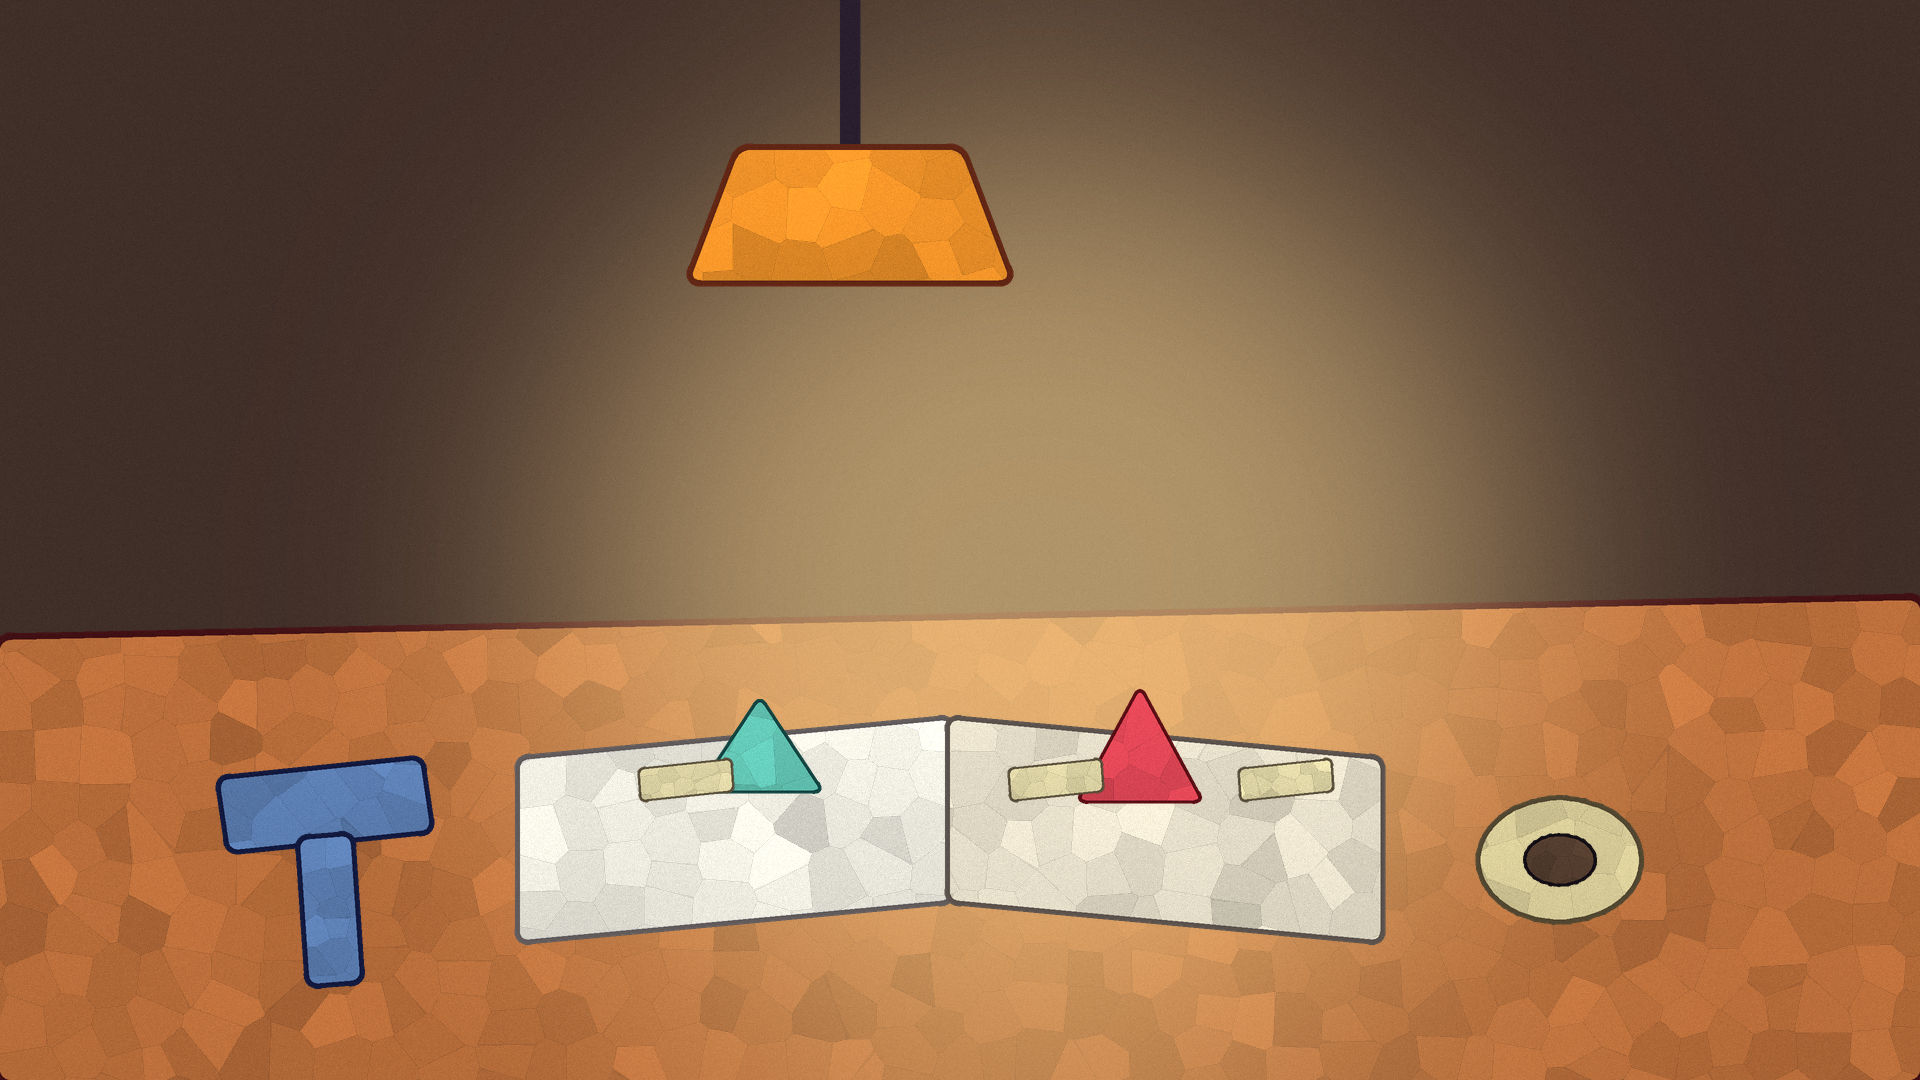
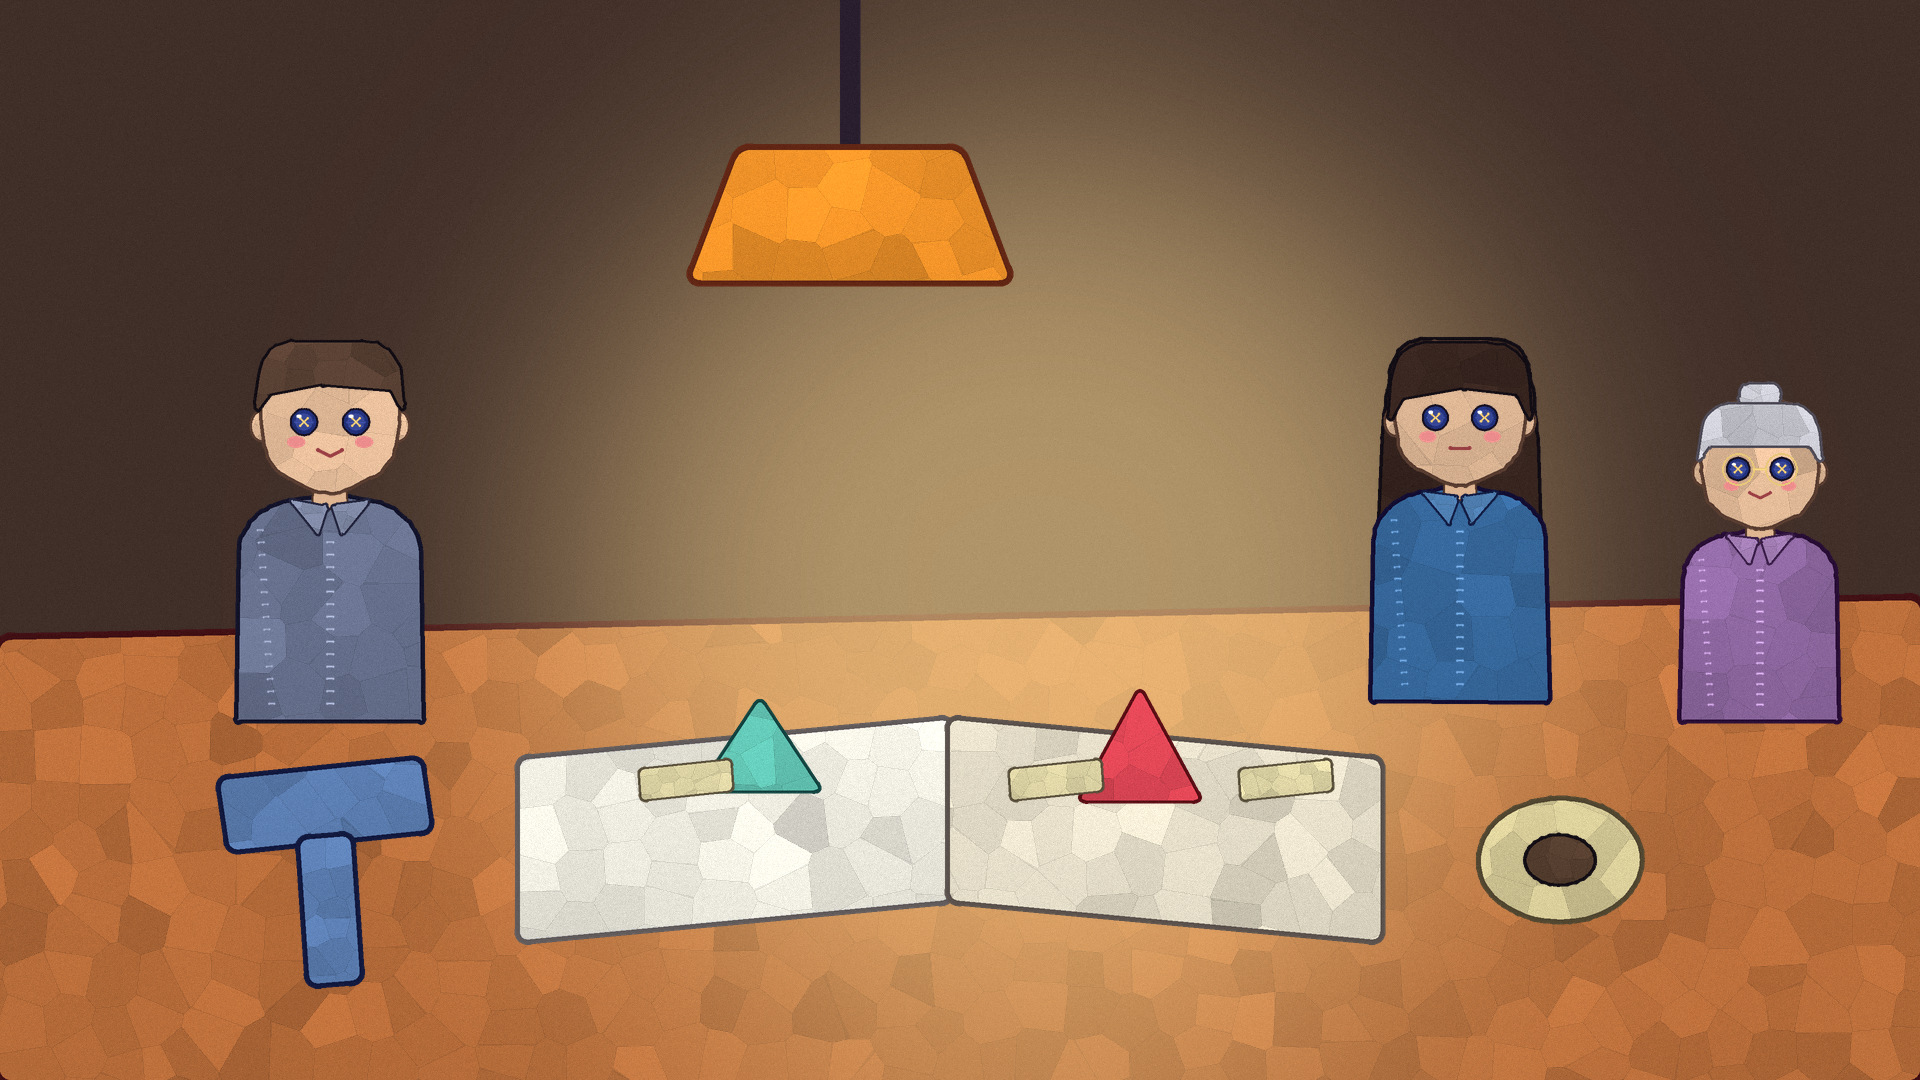
Draw the family into the first three table scenes
Interludes 1 and 2 had Dad, Nell and Gran talking with nobody on screen, and
Interlude 3 showed Dad as two blobs. They now use the papercraft people from
the finale: the whole family in Interlude 1, Dad and Gran beside Nell's empty
chair in Interlude 2, and Dad asleep on his arms (eyes stitched shut) with Gran
keeping watch in Interlude 3.

Claude-Session: https://claude.ai/code/session_01RLJvChxJXFtXZQYtAWEzAU

diff --git a/tools/art/chapter3_art.py b/tools/art/chapter3_art.py
@@ -464,9 +464,24 @@ def build_dad_table_night():
     crayon_poly(img, [(900, 750), (1260, 780), (1260, 930), (900, 900)], (236, 238, 248, 255), width=6)
     crayon_poly(img, [(620, 840), (690, 780), (760, 840)], (170, 184, 220, 255), width=4)
     ink_line(img, [(880, 740), (896, 790), (884, 840), (900, 900)], width=4, wobble=1.5, color=(60, 40, 40, 255))
-    # Dad asleep, head on folded arms beside the book.
-    crayon_poly(img, [(240, 700), (520, 690), (540, 820), (220, 830)], (110, 120, 150, 255), width=6)
-    crayon_poly(img, ellipse_points(370, 660, 80, 62, 30), (96, 70, 56, 255), width=6)
+    # Gran sitting up with him.
+    from finale_art import SKIN, _person
+    _person(img, 1180, 700, 320, (150, 110, 170, 255), (220, 220, 230, 255), hair_style="bun", mouth="flat", glasses=True)
+    # Dad asleep, head on folded arms beside the book, in the cast's papercraft style.
+    shirt, hair = (110, 120, 150, 255), (96, 70, 56, 255)
+    part(img, [(200, 830, 0), (230, 700), (330, 650), (470, 660), (540, 720), (560, 830, 0)], shirt, width=6, radius=40, seed=31)
+    stitches(img, [(250, 740), (520, 750)], color=shade(shirt, 40), step=12, size=3)
+    part(img, [(240, 790), (300, 740), (520, 740), (560, 800), (520, 830), (260, 830)], shade(shirt, 14), width=5, radius=26, seed=32)
+    crayon_poly(img, ellipse_points(520, 800, 26, 22, 18), SKIN, width=4)
+    part(img, [(290, 700), (330, 610), (420, 600), (470, 650), (460, 740), (360, 760)], SKIN, width=5, radius=34, seed=33)
+    part(img, [(286, 706), (318, 604), (420, 592), (476, 640), (440, 640, 0), (360, 650, 0), (320, 700, 0)], hair, width=4, radius=30, seed=34)
+    # Eyes stitched shut in sleep, and a little open mouth.
+    for ex, ey in ((372, 682), (424, 676)):
+        ink_line(img, [(ex - 12, ey), (ex, ey + 6), (ex + 12, ey)], width=3, wobble=0, color=(40, 40, 70, 255))
+    crayon_poly(img, ellipse_points(404, 716, 7, 9, 12), (150, 60, 66, 255), width=2)
+    crayon_poly(img, ellipse_points(452, 700, 9, 6, 12), (236, 140, 140, 150), outline=False, shadow=False)
+    for k, (zx, zy) in enumerate(((480, 580), (510, 540), (546, 494))):
+        ink_line(img, [(zx, zy), (zx + 14 + k * 4, zy), (zx, zy + 14 + k * 4), (zx + 14 + k * 4, zy + 14 + k * 4)], width=3, wobble=0, color=(230, 220, 250, 255))
     # The hairdryer, unplugged, on the table edge.
     crayon_poly(img, [(1360, 860), (1520, 840), (1530, 900), (1370, 920)], (230, 120, 150, 255), width=5)
     crayon_poly(img, [(1400, 900), (1440, 900), (1450, 990), (1410, 990)], (230, 120, 150, 255), width=5)

diff --git a/tools/art/generate_art.py b/tools/art/generate_art.py
@@ -691,6 +691,11 @@ def build_dad_table():
     # Lamp.
     crayon_poly(img, [(840, 0), (860, 0), (860, 150), (840, 150)], INK, outline=False)
     crayon_poly(img, [(740, 150), (960, 150), (1010, 280), (690, 280)], MARIGOLD, width=7)
+    # Dad, Nell and Gran round the table (drawn with the cast's papercraft people).
+    from finale_art import HAIR, NELL, _person
+    _person(img, 330, 720, 380, (110, 120, 150, 255), (96, 70, 56, 255))
+    _person(img, 1460, 700, 360, NELL, HAIR, hair_style="long", mouth="flat")
+    _person(img, 1760, 720, 320, (150, 110, 170, 255), (220, 220, 230, 255), hair_style="bun", glasses=True)
     # The open, taped pop-up book.
     crayon_poly(img, [(520, 760), (950, 720), (950, 900), (520, 940)], CREAM, width=6, density=0.5)
     crayon_poly(img, [(950, 720), (1380, 760), (1380, 940), (950, 900)], (244, 236, 214, 255), width=6, density=0.5)

diff --git a/tools/art/chapter2_art.py b/tools/art/chapter2_art.py
@@ -255,6 +255,10 @@ def build_dad_table_late():
     img = Image.composite(Image.new("RGBA", (w, h), (255, 206, 140, 255)), img, glow)
     crayon_poly(img, [(840, 0), (860, 0), (860, 150), (840, 150)], INK, outline=False)
     crayon_poly(img, [(740, 150), (960, 150), (1010, 280), (690, 280)], MARIGOLD, width=7)
+    # Dad, tired, and Gran beside him. Nell's chair is pushed back.
+    from finale_art import _person
+    _person(img, 640, 720, 380, (110, 120, 150, 255), (96, 70, 56, 255), mouth="flat")
+    _person(img, 1360, 700, 320, (150, 110, 170, 255), (220, 220, 230, 255), hair_style="bun", mouth="flat", glasses=True)
     crayon_poly(img, [(560, 760), (950, 730), (950, 890), (560, 920)], CREAM, width=6)
     crayon_poly(img, [(950, 730), (1340, 760), (1340, 920), (950, 890)], (244, 236, 214, 255), width=6)
     # The harbor page: a little blue sea and a lantern.
